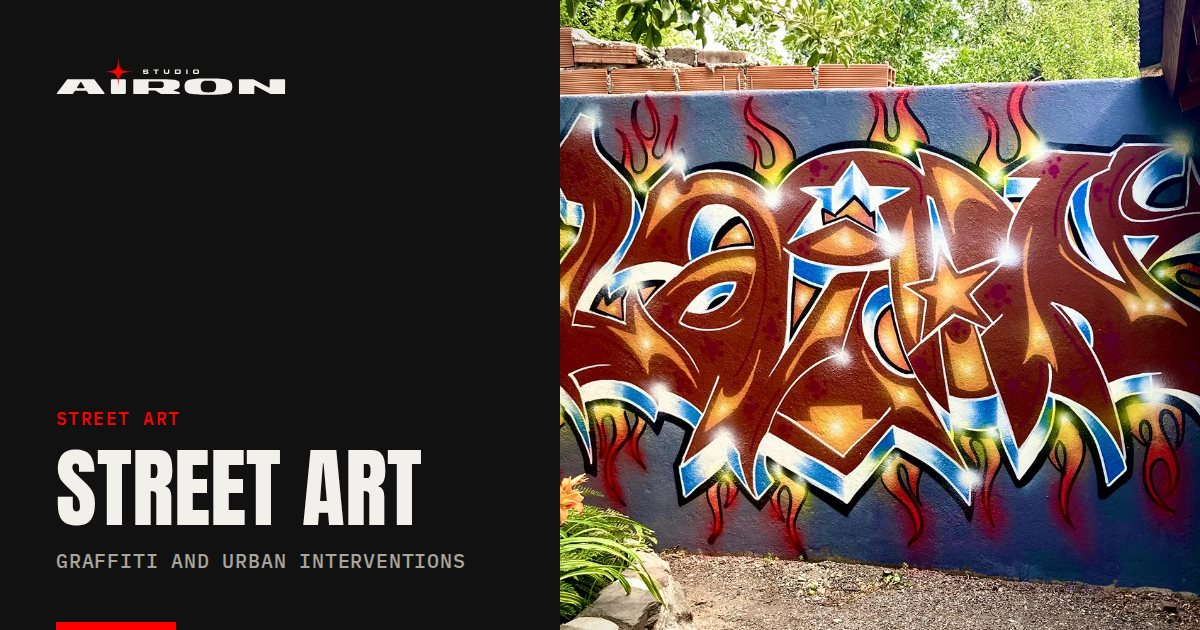
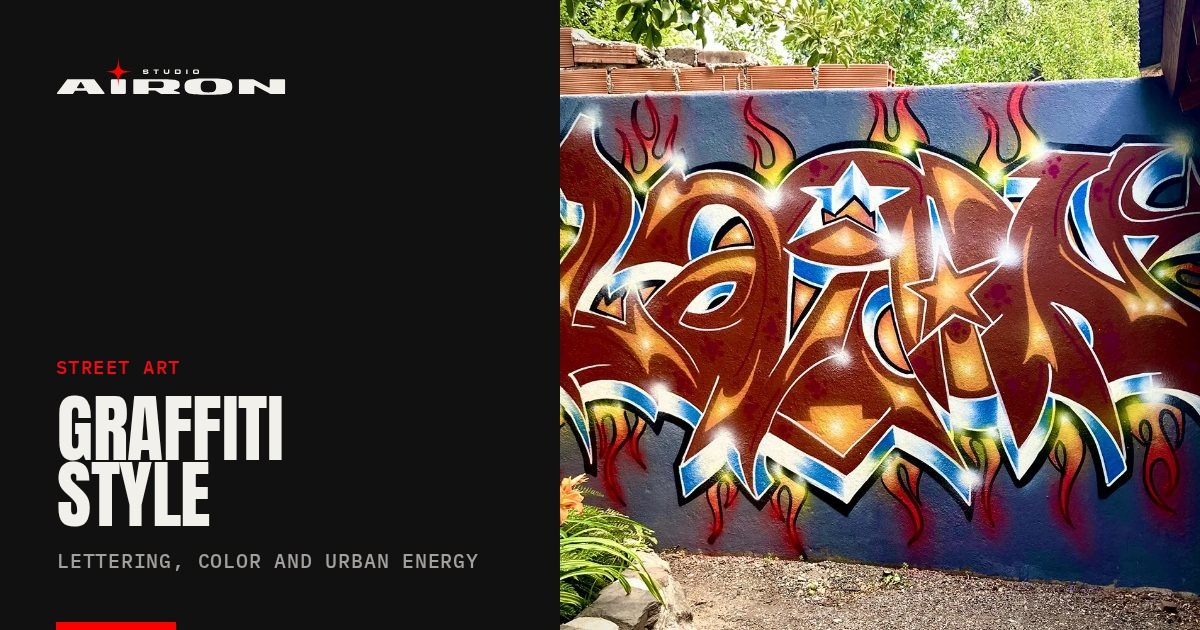
Página de murales para marcas y locales + Estética Graffiti
- Nueva página /murales/ y /en/murals/: qué pintamos (fachadas, interiores,
  persianas y vidrieras, pintura en vivo), estéticas (se arma sola con los
  proyectos de arte urbano), cómo trabajamos, caso Blend David con
  antes / proceso / después, preguntas frecuentes y pedido de presupuesto.
- Datos estructurados Service + FAQPage.
- "Murales" en el menú; los enlaces de Arte urbano llevan a la página.
- Street Art pasa a "Estética Graffiti" ("Graffiti Style"): textos que lo
  presentan como un lenguaje de diseño para marcas, con boceto y paredes
  autorizadas. Imágenes para compartir actualizadas.
- Proyectos de arte urbano: cierre "¿Querés un mural así para tu marca?"
  con botón a la página de murales.
- Contacto: ?tipo=mural elige "Mural / arte urbano" en el formulario.

Claude-Session: https://claude.ai/code/session_01B1SY5ZRnBrni5cjsgyoMk8

Changed region(s): [[0.0308, 0.573, 0.37, 0.8444], [0.0308, 0.8746, 0.4008, 0.9048]]

diff --git a/src/static/css/styles.css b/src/static/css/styles.css
@@ -409,6 +409,47 @@ ul { padding: 0; list-style: none; }
   .otro--sig { order: -1; }
 }
 
+/* ---------- murales ---------- */
+.murales-head { display: grid; grid-template-columns: 6fr 5fr; gap: 40px 64px; align-items: center; padding-block: clamp(32px, 5vw, 64px) clamp(48px, 6vw, 88px); }
+.murales-head-texto { display: flex; flex-direction: column; gap: 24px; }
+.murales-head-img { aspect-ratio: 202 / 158; overflow: hidden; background: var(--placeholder); }
+.murales-head-img img { width: 100%; height: 100%; object-fit: cover; }
+.grid-esteticas { display: grid; grid-template-columns: repeat(2, minmax(0, 1fr)); gap: 56px 40px; }
+.caso-in { display: grid; grid-template-columns: 5fr 6fr; gap: 40px 64px; align-items: center; padding-block: clamp(56px, 8vw, 112px); }
+.caso-texto { display: flex; flex-direction: column; gap: 24px; align-items: flex-start; }
+.caso .kicker { color: var(--muted-oscuro); }
+.caso-lead { font-size: clamp(19px, 1.7vw, 24px); line-height: 1.4; }
+.caso-datos { display: grid; grid-template-columns: repeat(3, minmax(0, 1fr)); gap: 16px 24px; width: 100%; margin: 8px 0; }
+.caso-dato { border-top: 1px solid var(--linea-oscura); padding-top: 14px; }
+.caso-valor { font-family: var(--f-display); font-size: clamp(34px, 3.4vw, 52px); line-height: .9; color: var(--acento); white-space: nowrap; }
+.caso-dato dd { margin: 8px 0 0; color: var(--muted-oscuro); font-size: 12px; }
+.caso .link-arrow:hover { color: var(--acento); }
+.caso-etapas { display: grid; grid-template-columns: repeat(3, minmax(0, 1fr)); gap: 12px; }
+.etapa { margin: 0; display: flex; flex-direction: column; gap: 10px; }
+.etapa-img { aspect-ratio: 3 / 4; overflow: hidden; background: var(--linea-oscura); }
+.etapa-img img { width: 100%; height: 100%; object-fit: cover; }
+.etapa figcaption { color: var(--muted-oscuro); font-size: 12px; }
+.etapa:last-child figcaption { color: var(--sobre-bloque); }
+.etapa:last-child figcaption::before { content: ''; display: inline-block; width: 8px; height: 8px; margin-right: 8px; background: var(--acento); }
+.faq-grid { display: grid; grid-template-columns: 1fr 2fr; gap: 40px; align-items: start; }
+.faq { border-bottom: 1px solid var(--ink); }
+.faq-item { border-top: 1px solid var(--ink); }
+.faq-item summary {
+  display: flex; justify-content: space-between; align-items: center; gap: 24px; min-height: 64px; padding: 16px 0;
+  font-family: var(--f-display); font-size: clamp(22px, 2vw, 30px); text-transform: uppercase; line-height: 1.05; cursor: pointer; list-style: none;
+}
+.faq-item summary::-webkit-details-marker { display: none; }
+.faq-item summary::after { content: '+'; font-family: var(--f-texto); font-size: 28px; color: var(--acento); transition: transform .25s ease; flex-shrink: 0; }
+.faq-item[open] summary::after { transform: rotate(45deg); }
+.faq-item summary:hover { color: var(--hover); }
+.faq-item p { padding: 0 0 24px; max-width: 44em; color: var(--texto-2); font-size: 18px; line-height: 1.6; }
+@media (max-width: 899px) {
+  .murales-head, .caso-in, .faq-grid { grid-template-columns: 1fr; }
+  .murales-head-img { order: -1; }
+  .grid-esteticas { grid-template-columns: 1fr; gap: 40px; }
+}
+@media (max-width: 699px) { .murales-head .btn-row { flex-direction: column; } .murales-head .btn { width: 100%; } }
+
 /* ---------- sobre mí ---------- */
 .sobre-grid { display: grid; grid-template-columns: 5fr 7fr; gap: 40px 64px; align-items: start; }
 .sobre-foto { width: 100%; height: auto; aspect-ratio: 1; object-fit: cover; background: var(--placeholder); }

diff --git a/src/static/js/main.js b/src/static/js/main.js
@@ -270,6 +270,10 @@ function visor() {
 function formulario() {
   const form = document.querySelector('form.form');
   if (!form) return;
+  // Si se llega desde un enlace como /contacto/?tipo=mural, se elige ese tipo de proyecto
+  const tipo = new URLSearchParams(location.search).get('tipo');
+  const opcion = tipo && [...form.querySelectorAll('#tipo option')].find((o) => o.dataset.clave === tipo);
+  if (opcion) opcion.selected = true;
   const estado = form.querySelector('[data-estado]');
   const enviar = form.querySelector('[type="submit"]');
   form.addEventListener('submit', async (e) => {

diff --git a/PENDIENTES.md b/PENDIENTES.md
@@ -56,6 +56,16 @@ AIRON y Capitales los maneja la misma persona y nadie más tiene acceso, así qu
 
 ---
 
+## 7. Murales — sumar más estéticas
+
+La página `/murales/` (en inglés `/en/murals/`) muestra automáticamente todos los proyectos con la categoría `urbano`, cada uno con su estética.
+
+- [ ] Pasar más proyectos de murales (fotos del antes, el proceso y el resultado, más los datos: cliente, lugar, medidas, jornadas y técnica).
+- [ ] Para cada uno, elegir el nombre de su estética (por ejemplo "Abstracto orgánico" o "Graffiti"). Va en el campo `"estetica"` del proyecto.
+- [ ] Confirmar la zona de trabajo que figura en las preguntas frecuentes: "CABA, La Plata y alrededores".
+
+**Qué hace falta de AIRON:** fotos y datos de cada mural nuevo.
+
 ## Otros detalles anotados
 
 - **CapiTales (diseño web):** agregarlo cuando se lance (01/04/2027) o antes si hay permiso, con capturas, rol y año.
